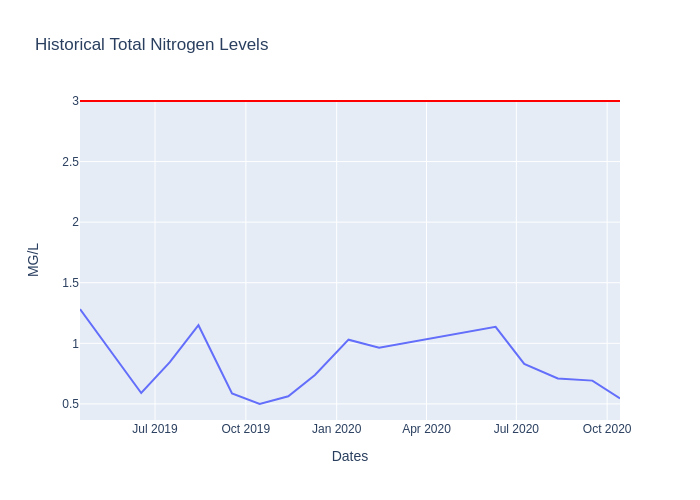
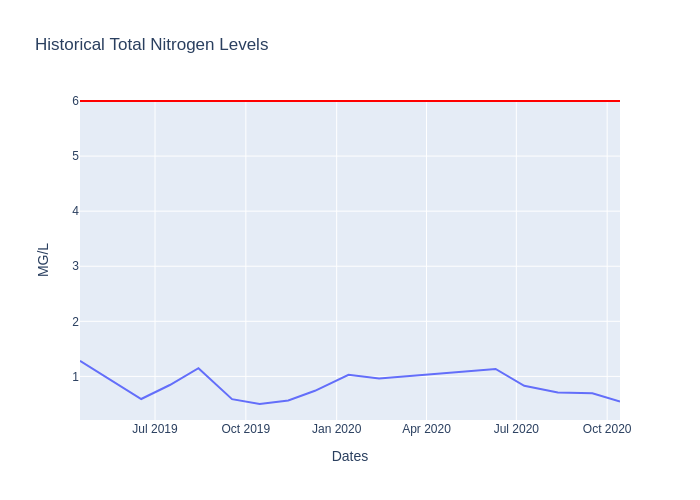
Deploy IzzyFad/NorthropGrumman-HIP to github.com/IzzyFad/NorthropGrumman-HIP.git:gh-pages

diff --git a/docs/about.html b/docs/about.html
@@ -31,7 +31,12 @@
           <h2> ABOUT </h2>
         </div>
         <div id="parameter-description">
-          <h2> Project Description </h2>
+          <h2> Currently, there are no digital applications which allow the general public
+to receive and view historical water temperature trends. The goal is to provide historical water
+temperature data within a location in the Chesapeake Bay – in order to provide information that
+can be used to uncover past trends. This information can be accessed through a user-friendly
+webpage on the internet. Mariners and the general public will use the projected information to
+quickly gather information for a variety of uses, including environmental research. </h2>
         </div>
       </div>
       <div id="data-sources">
@@ -39,19 +44,32 @@
           <p> DATA <br /> SOURCE </p>
         </div>
         <div id="right-side">
-          <p> Datahub….chesapeakebay.net….Maryland DNR </p>
+          <p> "The DataHub is the Chesapeake Bay Program’s primary tool for searching and downloading environmental data for the Chesapeake Bay watershed. This interface provides access to several types of data related to the Chesapeake Bay. Bay Program databases can be queried based upon user-defined inputs such as geographic region and date range. Each query results in a downloadable, tab- or comma-delimited text file that can be imported to any program (e.g., SAS, Excel, Access) for further analysis. To insure data accuracy, the Bay Program maintains a Quality Assurance Program that monitors and tracks several environmental data sets that look at pollutants, water quality, land use, algae, fish, crabs and submerged aquatic vegetation." </p>
+          <p> Link to DataHub: </p>
+            <a href="http://data.chesapeakebay.net/Home"> http://data.chesapeakebay.net/Home </a>
         </div>
       </div>
       <div id="project-scope">
-        <h1> PROJECT SCOPE/EXPECTATIONS </h1>
+        <h1> PROJECT SCOPE/EXPECTATIONS: Over one year, use software coding to create a user friendly database that provides water quality
+information (current and historical trends) at ease. </h1>
       </div>
 
       <div id="project-goals">
-        <h1> PROJECT GOALS / OBJECTIVES </h1>
+        <h1> PROJECTS GOALS AND OBSTACLES: Create a website that gathers historical water temperature data to
+display a user-friendly visual representation. This website will be coded through Python to gather
+the information from DataHub (data wrangling) and will relay the information visual appealing
+manner. </h1>
       </div>
 
       <div id="learning-highlights">
-        <h1> LEARNING HIGHLIGHTS </h1>
+        <h1> LEARNING HIGHLIGHTS: </h1>
+        <ul>
+          <li> Coding in Python, HTML, and Java Script </li>
+          <li> Data collection and analysis </li>
+          <li> Web design </li>
+          <li> User Interface Development </li>
+          <li> Project Management </li>
+        </ul>
       </div>
 
     </div>

diff --git a/templates/index.html b/templates/index.html
@@ -32,7 +32,7 @@
         </div>
         <div id="safety-container">
           <div id="safety-yes-no">
-            <h2> YES </h2>
+            <h2> $safety </h2>
           </div>
         </div>
       </div>
@@ -49,19 +49,18 @@
     <div id="levels">
       <div id="left-side">
           <p> CURRENT* LEVELS: </p>
-          <p> <span class="highlight"> WATER TEMPERATURE </span> $watertemp &deg;C </p>
           <p> <span class="highlight"> PHOSPHATE LEVELS </span>  $phosphate mg/L </p>
           <p> <span class="highlight"> TURBIDITY </span> $turbidity Meters  </p>
           <p> <span class="highlight"> OXYGEN LEVELS </span>  $oxygen mg/L </p>
           <p> <span class="highlight"> NITRATE LEVELS </span>  $nitrate mg/L  </p>
+          <p> <span class="highlight"> WATER TEMPERATURE </span> $watertemp &deg;C </p>
         </div>
         <div id="right-side">
           <p> Barriers/Max Levels: </p>
-          <p> <span class="highlight"> WATER TEMPERATURE </span> </p>
-          <p> <span class="highlight"> PHOSPHATE LEVELS </span> </p>
-          <p> <span class="highlight"> TURBIDITY </span> </p>
-          <p> <span class="highlight"> OXYGEN LEVELS </span> </p>
-          <p> <span class="highlight"> NITRATE LEVELS </span> </p>
+          <p> <span class="highlight"> PHOSPHATE LEVELS: </span> 0.05 mg/L </p>
+          <p> <span class="highlight"> TURBIDITY: </span> 0.12 meters  </p>
+          <p> <span class="highlight"> OXYGEN LEVELS: </span> 5.0 mg/L </p>
+          <p> <span class="highlight"> NITRATE LEVELS: </span> 6 mg/L </p>
         </div>
       </div>
     <div id="updated-as-of">
@@ -69,7 +68,10 @@
           SEE ABOUT PAGE FOR INFORMATION ON DATA SOURCE
       </p>
       <div id="disclaimer">
-        <p> Disclaimer: This website is not intended to…. </p>
+        <p> Disclaimer: Severn River Water Trends is designed for educational and informational purposes only. You should consult your physician or general practitioner if you have questions as to whether it is safe for you to participate in activities involving entering the Severn River. You should not rely on this information as a substitute for, nor does it replace, professional medical advice, diagnosis, or treatment. If you have any concerns or questions about your health, you should always consult with a physician, general practitioner or other health-care professional.
+        </p>
+        <p> For more information on safety measures and risks of swimming in the Severn River, please view the EPA webpage below. </p>
+        <a href=" https://www.epa.gov/environmental-topics/water-topics">  https://www.epa.gov/environmental-topics/water-topics </a>
       </div>
     </div>
     </div>

diff --git a/docs/index.html b/docs/index.html
@@ -49,27 +49,29 @@
     <div id="levels">
       <div id="left-side">
           <p> CURRENT* LEVELS: </p>
-          <p> <span class="highlight"> WATER TEMPERATURE </span> 19.4 &deg;C </p>
           <p> <span class="highlight"> PHOSPHATE LEVELS </span>  0.0341 mg/L </p>
           <p> <span class="highlight"> TURBIDITY </span> 1.3 Meters  </p>
           <p> <span class="highlight"> OXYGEN LEVELS </span>  6.1 mg/L </p>
           <p> <span class="highlight"> NITRATE LEVELS </span>  0.545 mg/L  </p>
+          <p> <span class="highlight"> WATER TEMPERATURE </span> 19.4 &deg;C </p>
         </div>
         <div id="right-side">
           <p> Barriers/Max Levels: </p>
-          <p> <span class="highlight"> WATER TEMPERATURE </span> </p>
-          <p> <span class="highlight"> PHOSPHATE LEVELS </span> </p>
-          <p> <span class="highlight"> TURBIDITY </span> </p>
-          <p> <span class="highlight"> OXYGEN LEVELS </span> </p>
-          <p> <span class="highlight"> NITRATE LEVELS </span> </p>
+          <p> <span class="highlight"> PHOSPHATE LEVELS: </span> 0.05 mg/L </p>
+          <p> <span class="highlight"> TURBIDITY: </span> 0.12 meters  </p>
+          <p> <span class="highlight"> OXYGEN LEVELS: </span> 5.0 mg/L </p>
+          <p> <span class="highlight"> NITRATE LEVELS: </span> 6 mg/L </p>
         </div>
       </div>
     <div id="updated-as-of">
-      <p> *UPDATED AS OF  03-19-2019 <br />
+      <p> *UPDATED AS OF  03-25-2021 <br />
           SEE ABOUT PAGE FOR INFORMATION ON DATA SOURCE
       </p>
       <div id="disclaimer">
-        <p> Disclaimer: This website is not intended to…. </p>
+        <p> Disclaimer: Severn River Water Trends is designed for educational and informational purposes only. You should consult your physician or general practitioner if you have questions as to whether it is safe for you to participate in activities involving entering the Severn River. You should not rely on this information as a substitute for, nor does it replace, professional medical advice, diagnosis, or treatment. If you have any concerns or questions about your health, you should always consult with a physician, general practitioner or other health-care professional.
+        </p>
+        <p> For more information on safety measures and risks of swimming in the Severn River, please view the EPA webpage below. </p>
+        <a href=" https://www.epa.gov/environmental-topics/water-topics">  https://www.epa.gov/environmental-topics/water-topics </a>
       </div>
     </div>
     </div>

diff --git a/docs/phosphate.html b/docs/phosphate.html
@@ -31,7 +31,7 @@
           <h2> Phosphate Levels </h2>
         </div>
         <div id="parameter-description">
-          <h2> Parameter description/what it is/ what it reads </h2>
+          <h2> Nutrient levels in the Severn River are extremely important in understanding the health of the waterway. Phosphates are one of the nutrients studied. Phosphates can be found in fertilizers and decomposed organic matter.  It enters into the Severn River through runoff.  Phosphates are needed for aquatic plants to grow, however, too many phosphates in a waterway can lead to the accelerated growth of plant life.  As plants begin to grow, they block sunlight from other aquatic plants and organisms. Additionally, an overgrowth of plants can lead to eutrophication which results in a reduction of dissolved oxygen. Phosphate levels are recorded in mg/L. View the graph below for historical phosphate level trends. Feel free to use the information below to see the most recent water phosphate level.</h2>
         </div>
       </div>
       <div id="historical-trend-container">
@@ -41,13 +41,16 @@
       </div>
       <div id="data-words">
         <div id="left-side">
-          <p> <span class="highlight"> BASELINES/MAX LEVELS </span> </p>
-          <p> DESCRIPTION OF BASELINES </p>
+          <p> <span class="highlight"> MAX LEVELS </span> </p>
+          <p> Max level: 0.05 mg/L </p>
+          <p> DESCRIPTION OF BASELINES: This baseline is retrieved from the EPA. The max level represents the maximum level of phosphates that is considered acceptable for the Severn River.  See the link below for more information about phosphate levels. </p>
+          <p> Source (EPA): </p>
+            <a href="https://www.epa.gov/sites/production/files/2015-09/documents/totalphosphorus.pdf"> https://www.epa.gov/sites/production/files/2015-09/documents/totalphosphorus.pdf </a>
         </div>
         <div id="right-side">
           <p> <span class="highlight"> LOCATION OF DATA COLLECTION: </span> </p>
           <p> COORDINATES: (39.00764,	-76.50350) </p>
-          <p> DEPTH: 0.5 meters </p> 
+          <p> DEPTH: 0.5 meters </p>
         </div>
       </div>
       <div id="updated-value">

diff --git a/templates/phosphate.html b/templates/phosphate.html
@@ -31,7 +31,7 @@
           <h2> Phosphate Levels </h2>
         </div>
         <div id="parameter-description">
-          <h2> Parameter description/what it is/ what it reads </h2>
+          <h2> Nutrient levels in the Severn River are extremely important in understanding the health of the waterway. Phosphates are one of the nutrients studied. Phosphates can be found in fertilizers and decomposed organic matter.  It enters into the Severn River through runoff.  Phosphates are needed for aquatic plants to grow, however, too many phosphates in a waterway can lead to the accelerated growth of plant life.  As plants begin to grow, they block sunlight from other aquatic plants and organisms. Additionally, an overgrowth of plants can lead to eutrophication which results in a reduction of dissolved oxygen. Phosphate levels are recorded in mg/L. View the graph below for historical phosphate level trends. Feel free to use the information below to see the most recent water phosphate level.</h2>
         </div>
       </div>
       <div id="historical-trend-container">
@@ -41,13 +41,16 @@
       </div>
       <div id="data-words">
         <div id="left-side">
-          <p> <span class="highlight"> BASELINES/MAX LEVELS </span> </p>
-          <p> DESCRIPTION OF BASELINES </p>
+          <p> <span class="highlight"> MAX LEVELS </span> </p>
+          <p> Max level: 0.05 mg/L </p>
+          <p> DESCRIPTION OF BASELINES: This baseline is retrieved from the EPA. The max level represents the maximum level of phosphates that is considered acceptable for the Severn River.  See the link below for more information about phosphate levels. </p>
+          <p> Source (EPA): </p>
+            <a href="https://www.epa.gov/sites/production/files/2015-09/documents/totalphosphorus.pdf"> https://www.epa.gov/sites/production/files/2015-09/documents/totalphosphorus.pdf </a>
         </div>
         <div id="right-side">
           <p> <span class="highlight"> LOCATION OF DATA COLLECTION: </span> </p>
           <p> COORDINATES: (39.00764,	-76.50350) </p>
-          <p> DEPTH: 0.5 meters </p> 
+          <p> DEPTH: 0.5 meters </p>
         </div>
       </div>
       <div id="updated-value">

diff --git a/docs/nitrate.html b/docs/nitrate.html
@@ -31,8 +31,7 @@
           <h2> Nitrate Levels </h2>
         </div>
         <div id="parameter-description">
-          <h2> Parameter description/what it is/ what it reads </h2>
-        </div>
+          <h2> Nutrient levels in the Severn River are extremely important in understanding the health of the waterway. Nitates are one of the nutrients studied. Nitates can be found in fertilizers and decomposed organic matter.  It enters into the Severn River through runoff.  Nitrates are needed for aquatic plants to grow, however, too many nitrates in a waterway can lead to the accelerated growth of plant life.  As plants begin to grow, they block sunlight from other aquatic plants and organisms. Additionally, an overgrowth of plants can lead to eutrophication which results in a reduction of dissolved oxygen. Nitrates levels are recorded in mg/L. View the graph below for historical phosphate level trends. Feel free to use the information below to see the most recent water phosphate level. <h2>
       </div>
       <div id="historical-trend-container">
         <p> HISTORICAL <br /> TRENDS
@@ -42,12 +41,15 @@
       <div id="data-words">
         <div id="left-side">
           <p> <span class="highlight"> BASELINES/MAX LEVELS </span> </p>
-          <p> DESCRIPTION OF BASELINES </p>
+          <p> Max level: 6 mg/L </p>
+          <p> DESCRIPTION OF BASELINES: This baseline is retrieved from the EPA. The max level represents the maximum level of nutrients that is considered acceptable for the Severn River. See the link below for more information about nutrient levels. </p>
+          <p> Source (EPA): </p>
+            <a href="https://www.epa.gov/sites/production/files/2015-09/documents/totalnitrogen.pdf"> https://www.epa.gov/sites/production/files/2015-09/documents/totalnitrogen.pdf </a>
         </div>
         <div id="right-side">
           <p> <span class="highlight"> LOCATION OF DATA COLLECTION: </span> </p>
           <p> COORDINATES: (39.00764,	-76.50350) </p>
-          <p> DEPTH: 0.5 meters </p> 
+          <p> DEPTH: 0.5 meters </p>
         </div>
       </div>
       <div id="updated-value">

diff --git a/templates/nitrate.html b/templates/nitrate.html
@@ -31,8 +31,7 @@
           <h2> Nitrate Levels </h2>
         </div>
         <div id="parameter-description">
-          <h2> Parameter description/what it is/ what it reads </h2>
-        </div>
+          <h2> Nutrient levels in the Severn River are extremely important in understanding the health of the waterway. Nitates are one of the nutrients studied. Nitates can be found in fertilizers and decomposed organic matter.  It enters into the Severn River through runoff.  Nitrates are needed for aquatic plants to grow, however, too many nitrates in a waterway can lead to the accelerated growth of plant life.  As plants begin to grow, they block sunlight from other aquatic plants and organisms. Additionally, an overgrowth of plants can lead to eutrophication which results in a reduction of dissolved oxygen. Nitrates levels are recorded in mg/L. View the graph below for historical phosphate level trends. Feel free to use the information below to see the most recent water phosphate level. <h2>
       </div>
       <div id="historical-trend-container">
         <p> HISTORICAL <br /> TRENDS
@@ -42,12 +41,15 @@
       <div id="data-words">
         <div id="left-side">
           <p> <span class="highlight"> BASELINES/MAX LEVELS </span> </p>
-          <p> DESCRIPTION OF BASELINES </p>
+          <p> Max level: 6 mg/L </p>
+          <p> DESCRIPTION OF BASELINES: This baseline is retrieved from the EPA. The max level represents the maximum level of nutrients that is considered acceptable for the Severn River. See the link below for more information about nutrient levels. </p>
+          <p> Source (EPA): </p>
+            <a href="https://www.epa.gov/sites/production/files/2015-09/documents/totalnitrogen.pdf"> https://www.epa.gov/sites/production/files/2015-09/documents/totalnitrogen.pdf </a>
         </div>
         <div id="right-side">
           <p> <span class="highlight"> LOCATION OF DATA COLLECTION: </span> </p>
           <p> COORDINATES: (39.00764,	-76.50350) </p>
-          <p> DEPTH: 0.5 meters </p> 
+          <p> DEPTH: 0.5 meters </p>
         </div>
       </div>
       <div id="updated-value">

diff --git a/docs/turbidity.html b/docs/turbidity.html
@@ -31,7 +31,7 @@
           <h2> Turbidity </h2>
         </div>
         <div id="parameter-description">
-          <h2> Parameter description/what it is/ what it reads </h2>
+          <h2> Turbidity is the cloudiness of a fluid.  In environmental terms, turbidity levels are used to determine the amount of sunlight that can be seen.  Turbitidy tests are taken by using secchi disks which are lowered into the Severn River. If the secchi disk cannot be easily seen in less than 0.5 meters, it can show possible signs of sediment or eutrophication in the water.  Sunlight is important to the aquatic ecosystems as many organisms rely on aquatic plants.  If plants cannot receive the needed sunlight, they cannot grow and therefore cannot provide food and shelter to other aquatic organisms. Sediment suspended in the water blocks sunlight to underwater grasses.  These grasses help filter water and oxygenate the water so they are necessary to aquatic ecosystems. </h2>
         </div>
       </div>
       <div id="historical-trend-container">
@@ -42,12 +42,15 @@
       <div id="data-words">
         <div id="left-side">
           <p> <span class="highlight"> BASELINES/MAX LEVELS </span> </p>
-          <p> DESCRIPTION OF BASELINES </p>
+          <p> Minimum level: 0.12 m (12 cm) </p>
+          <p> DESCRIPTION OF BASELINES:  This baseline is retrieved from the Severn River Association. The minimum level represents the minimum level of sunlight that can be seen through the water.  The minimum level of turbidity listed is .12m.  See the link below for more information about turbidity levels. </p>
+          <p> Source (Severn River Association): </p>
+            <a href="https://severnriver.org/programs/water-quality-monitoring/"> https://severnriver.org/programs/water-quality-monitoring/ </a>
         </div>
         <div id="right-side">
           <p> <span class="highlight"> LOCATION OF DATA COLLECTION: </span> </p>
           <p> COORDINATES: (39.00764,	-76.50350) </p>
-          <p> DEPTH: 0.5 meters </p> 
+          <p> DEPTH: 0.5 meters </p>
         </div>
       </div>
       <div id="updated-value">

diff --git a/templates/turbidity.html b/templates/turbidity.html
@@ -31,7 +31,7 @@
           <h2> Turbidity </h2>
         </div>
         <div id="parameter-description">
-          <h2> Parameter description/what it is/ what it reads </h2>
+          <h2> Turbidity is the cloudiness of a fluid.  In environmental terms, turbidity levels are used to determine the amount of sunlight that can be seen.  Turbitidy tests are taken by using secchi disks which are lowered into the Severn River. If the secchi disk cannot be easily seen in less than 0.5 meters, it can show possible signs of sediment or eutrophication in the water.  Sunlight is important to the aquatic ecosystems as many organisms rely on aquatic plants.  If plants cannot receive the needed sunlight, they cannot grow and therefore cannot provide food and shelter to other aquatic organisms. Sediment suspended in the water blocks sunlight to underwater grasses.  These grasses help filter water and oxygenate the water so they are necessary to aquatic ecosystems. </h2>
         </div>
       </div>
       <div id="historical-trend-container">
@@ -42,12 +42,15 @@
       <div id="data-words">
         <div id="left-side">
           <p> <span class="highlight"> BASELINES/MAX LEVELS </span> </p>
-          <p> DESCRIPTION OF BASELINES </p>
+          <p> Minimum level: 0.12 m (12 cm) </p>
+          <p> DESCRIPTION OF BASELINES:  This baseline is retrieved from the Severn River Association. The minimum level represents the minimum level of sunlight that can be seen through the water.  The minimum level of turbidity listed is .12m.  See the link below for more information about turbidity levels. </p>
+          <p> Source (Severn River Association): </p>
+            <a href="https://severnriver.org/programs/water-quality-monitoring/"> https://severnriver.org/programs/water-quality-monitoring/ </a>
         </div>
         <div id="right-side">
           <p> <span class="highlight"> LOCATION OF DATA COLLECTION: </span> </p>
           <p> COORDINATES: (39.00764,	-76.50350) </p>
-          <p> DEPTH: 0.5 meters </p> 
+          <p> DEPTH: 0.5 meters </p>
         </div>
       </div>
       <div id="updated-value">

diff --git a/docs/oxygen.html b/docs/oxygen.html
@@ -31,7 +31,7 @@
           <h2> Oxygen Levels </h2>
         </div>
         <div id="parameter-description">
-          <h2> Parameter description/what it is/ what it reads </h2>
+          <h2> Dissolved oxygen is the amount of oxygen in the water.  It is necessary for aquatic organisms as animals such as fish and shellfish to have adequate amounts of oxygen in the waterways.  If the dissovled oxygen levels are too low, the aquatic organisms will either swim away or suffocate.  The amount of oxygen does not impact humans, however, low levels of dissolved oxygen can signify further problems in the aquatic ecosystem which can potentially be hazardous to humans. </h2>
         </div>
       </div>
       <div id="historical-trend-container">
@@ -42,7 +42,10 @@
       <div id="data-words">
         <div id="left-side">
           <p> <span class="highlight"> BASELINES/MAX LEVELS </span> </p>
-          <p> DESCRIPTION OF BASELINES </p>
+          <p> Minimum level: 5 mg/L </p>
+          <p> DESCRIPTION OF BASELINES: This baseline is retrieved from the Chesapeake Bay Program. The minimum level represents the minimum level of dissolved oxygen that is acceptable within the Severn River.  The minimum level of dissolved oxygen listed is 5mg/L.  See the link below for more information about dissolved oxygen levels. </p></p>
+          <p> Source (Chesapeake Bay Program): </p>
+            <a href="https://www.chesapeakebay.net/discover/ecosystem/dissolved_oxygen"> https://www.chesapeakebay.net/discover/ecosystem/dissolved_oxygen </a>
         </div>
         <div id="right-side">
           <p> <span class="highlight"> LOCATION OF DATA COLLECTION: </span> </p>

diff --git a/templates/oxygen.html b/templates/oxygen.html
@@ -31,7 +31,7 @@
           <h2> Oxygen Levels </h2>
         </div>
         <div id="parameter-description">
-          <h2> Parameter description/what it is/ what it reads </h2>
+          <h2> Dissolved oxygen is the amount of oxygen in the water.  It is necessary for aquatic organisms as animals such as fish and shellfish to have adequate amounts of oxygen in the waterways.  If the dissovled oxygen levels are too low, the aquatic organisms will either swim away or suffocate.  The amount of oxygen does not impact humans, however, low levels of dissolved oxygen can signify further problems in the aquatic ecosystem which can potentially be hazardous to humans. </h2>
         </div>
       </div>
       <div id="historical-trend-container">
@@ -42,7 +42,10 @@
       <div id="data-words">
         <div id="left-side">
           <p> <span class="highlight"> BASELINES/MAX LEVELS </span> </p>
-          <p> DESCRIPTION OF BASELINES </p>
+          <p> Minimum level: 5 mg/L </p>
+          <p> DESCRIPTION OF BASELINES: This baseline is retrieved from the Chesapeake Bay Program. The minimum level represents the minimum level of dissolved oxygen that is acceptable within the Severn River.  The minimum level of dissolved oxygen listed is 5mg/L.  See the link below for more information about dissolved oxygen levels. </p></p>
+          <p> Source (Chesapeake Bay Program): </p>
+            <a href="https://www.chesapeakebay.net/discover/ecosystem/dissolved_oxygen"> https://www.chesapeakebay.net/discover/ecosystem/dissolved_oxygen </a>
         </div>
         <div id="right-side">
           <p> <span class="highlight"> LOCATION OF DATA COLLECTION: </span> </p>

diff --git a/docs/watertemp.html b/docs/watertemp.html
@@ -31,7 +31,7 @@
           <h2> Water Temperature </h2>
         </div>
         <div id="parameter-description">
-          <h2> Parameter description/what it is/ what it reads </h2>
+          <h2> Water temperature is a measure of the temperature of the water in the Severn River.  Temperature samples of the Severn River are taken regularly to recognize changes within the ecosystem and environment. Temperatures are recorded in celsius.  View the graph below for historical water temperature trends. Feel free to use the information below to see the most recent water temperature. </h2>
         </div>
       </div>
       <div id="historical-trend-container">
@@ -41,13 +41,13 @@
       </div>
       <div id="data-words">
         <div id="left-side">
-          <p> <span class="highlight"> BASELINES/MAX LEVELS </span> </p>
-          <p> DESCRIPTION OF BASELINES </p>
+          <p> <span class="highlight"> BASELINES/MAX LEVELS: </span> There is no baseline or max level for water temperature.  </p>
+          <p> DESCRIPTION OF BASELINES: n/a </p>
         </div>
         <div id="right-side">
           <p> <span class="highlight"> LOCATION OF DATA COLLECTION: </span> </p>
           <p> COORDINATES: (39.00764,	-76.50350) </p>
-          <p> DEPTH: 4 meters </p> 
+          <p> DEPTH: 4 meters </p>
         </div>
       </div>
       <div id="updated-value">
